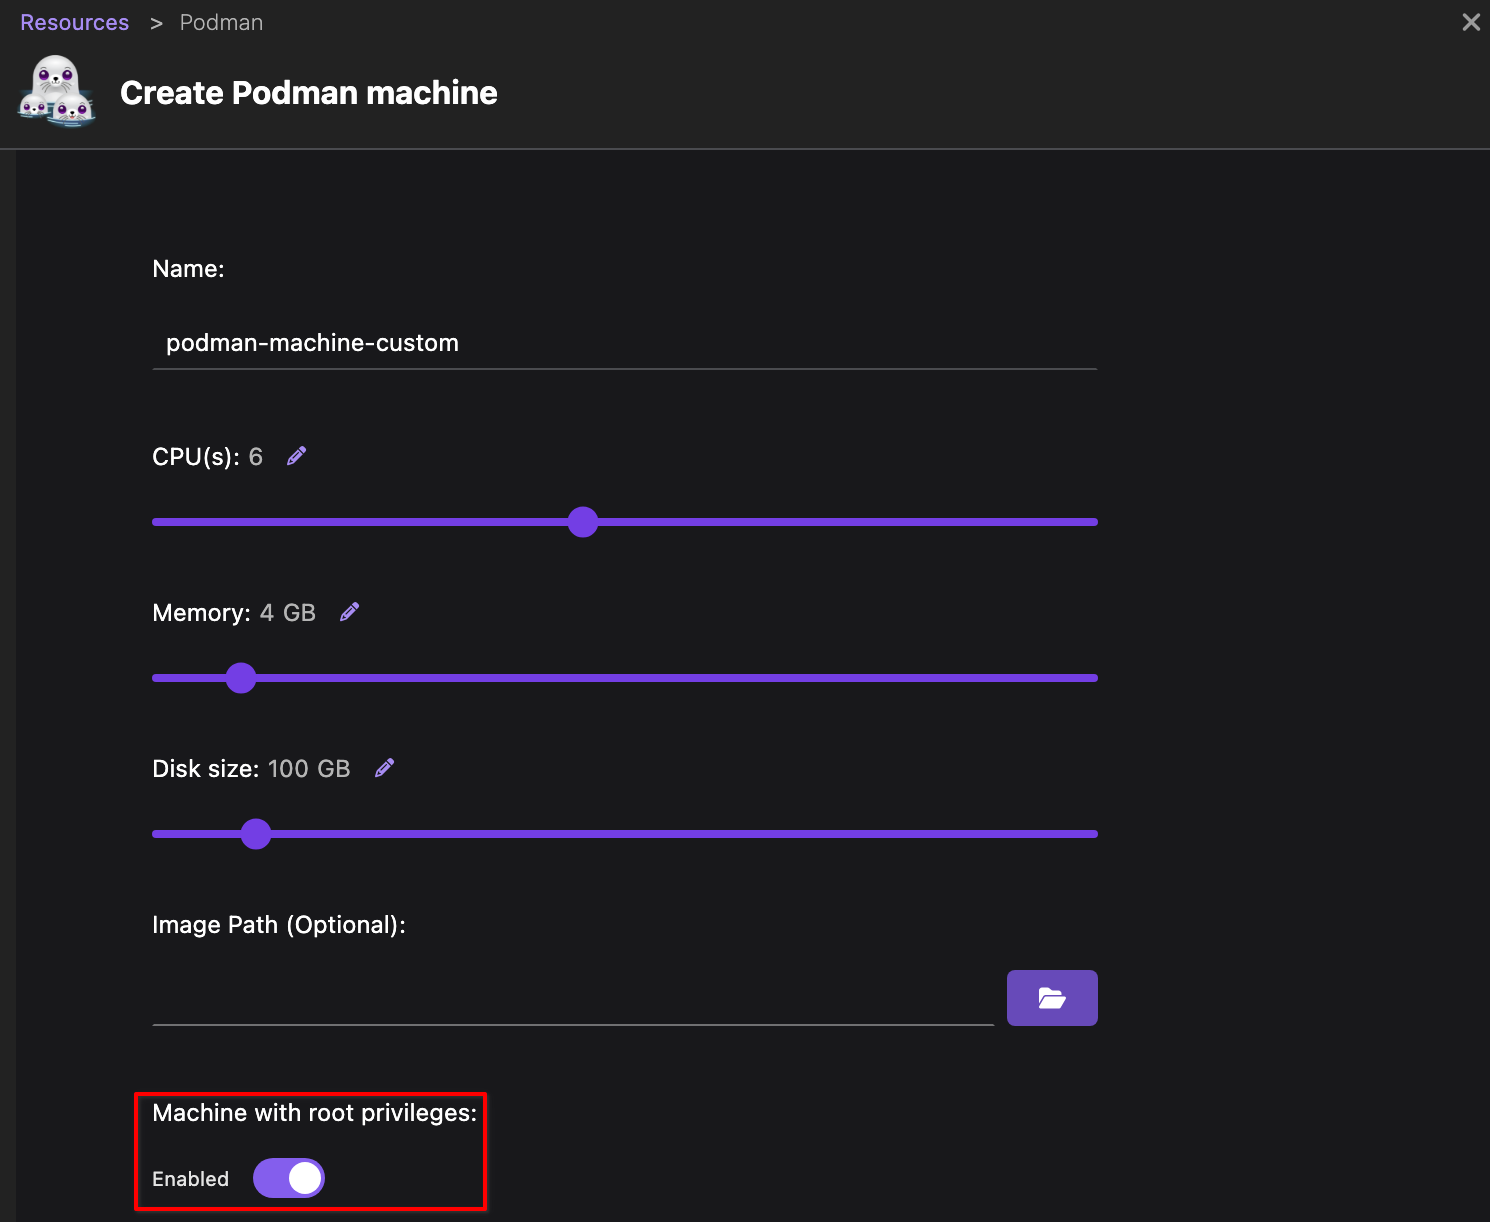
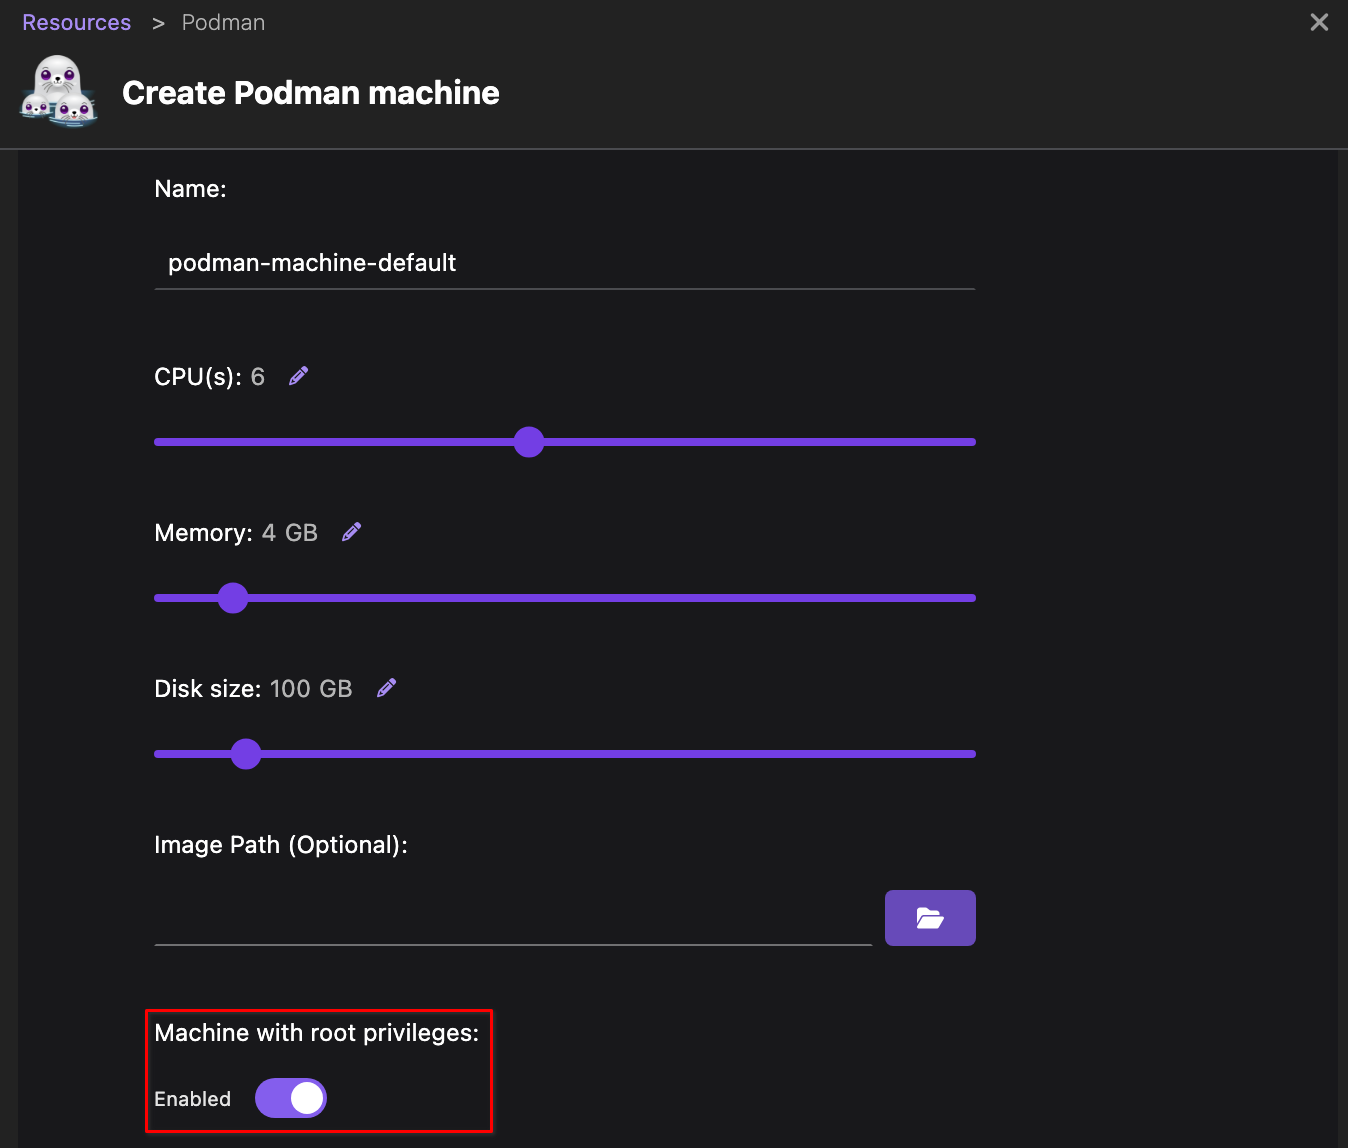
docs(website): added an image Signed-off-by: Shipra Singh <shipsing@redhat.com>

diff --git a/website/tutorial/running-a-kubernetes-cluster.md b/website/tutorial/running-a-kubernetes-cluster.md
@@ -48,7 +48,7 @@ You can use extensions, such as Kind, MiniKube, and others to start a local Kube
 
 To use the Minikube tool on Windows, you must have a Podman machine running in rootful mode.
 
-- The Podman Desktop **Settings** enable you to create a default Podman machine that runs in rootful mode. However, if you have a custom Podman machine that you want to run in rootful mode, you can enable the setting from the UI.
+- By default, the Podman Desktop **Settings** enable you to create a Podman machine that runs in rootful mode.
 
   ![root mode enabled](img/root-mode-enabled.png)
 
